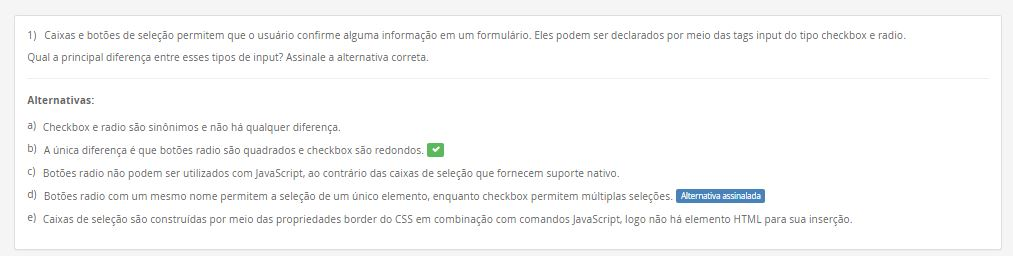
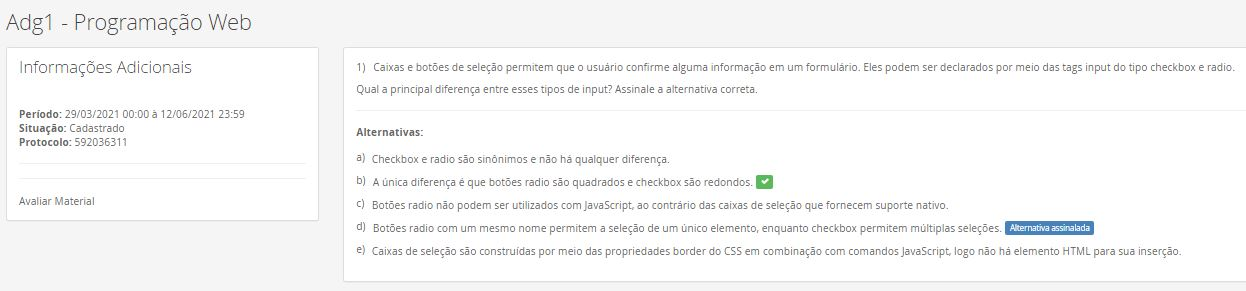
adicionado nova imagem e questão

diff --git a/faculdade/faculdade.html b/faculdade/faculdade.html
@@ -14,12 +14,14 @@
             <nav><a href="#adgq1">Questão 1</a> <a href="#adgq3">Questão 3</a></nav>
         </header>
             <article>
-                <h2>Adg1</h2>
+                <h2>Adg1 e Aap1</h2>
                 <section>
-                    <h3 id="adgq1">Questão 1</h3>
+                    <h3 id="adgq1">Questão 1 - Mesma questão do Adg1 e Aap1</h3>
                     <p>Apresenta que a resposta correta é a alternativa <strong>B</strong>, sendo que está incorreta.<br>
                     A alternativa correta é a <strong>D</strong>.
                     <img src="./img/adg1-1.JPG" alt="Questão 1 - Adg1">
+                    </p>
+                    <img src="./img/aap1.JPG" alt="Questão 1 - Aap1">
                     </p>
                     <p>Exemplo <strong>Checkbox</strong> :<pre><code>
         &lt;Label&gt;Checkbox: &lt;/Label&gt;
